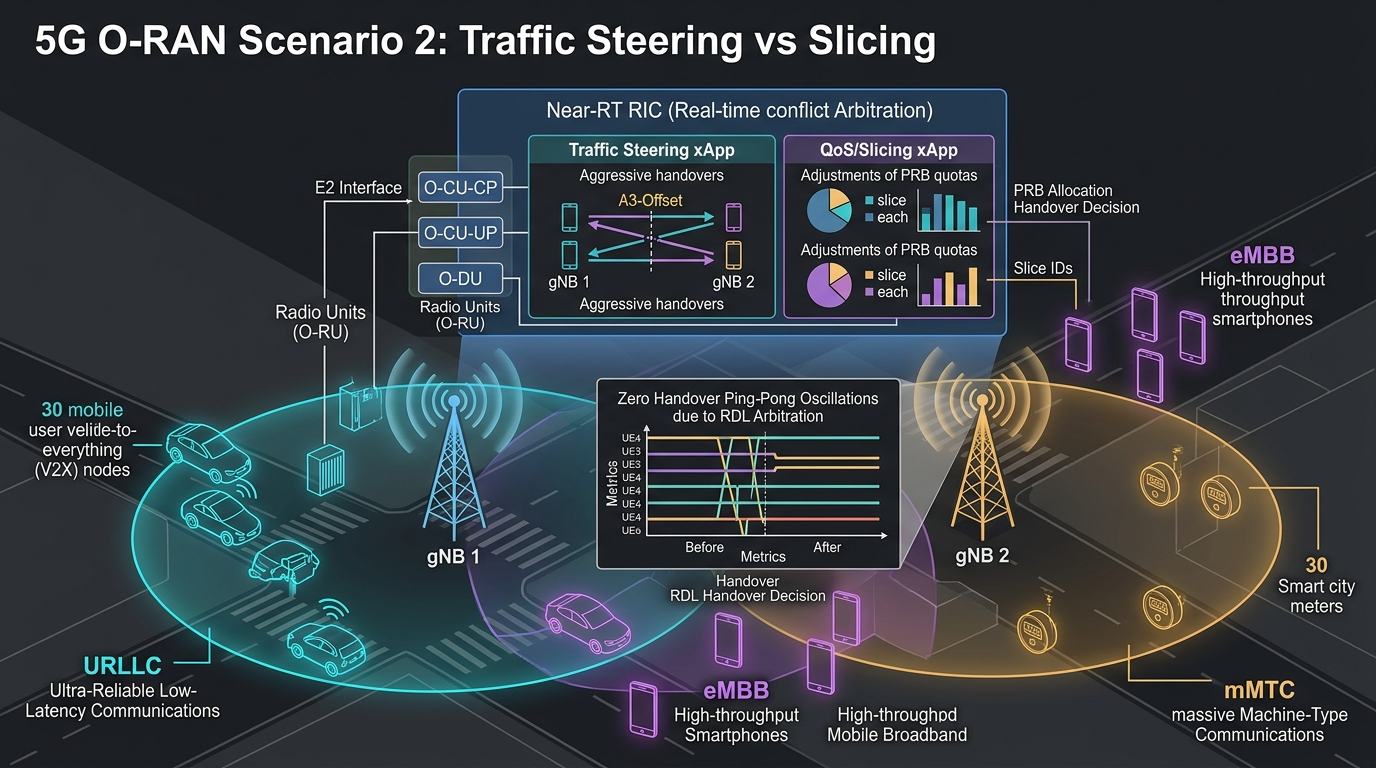
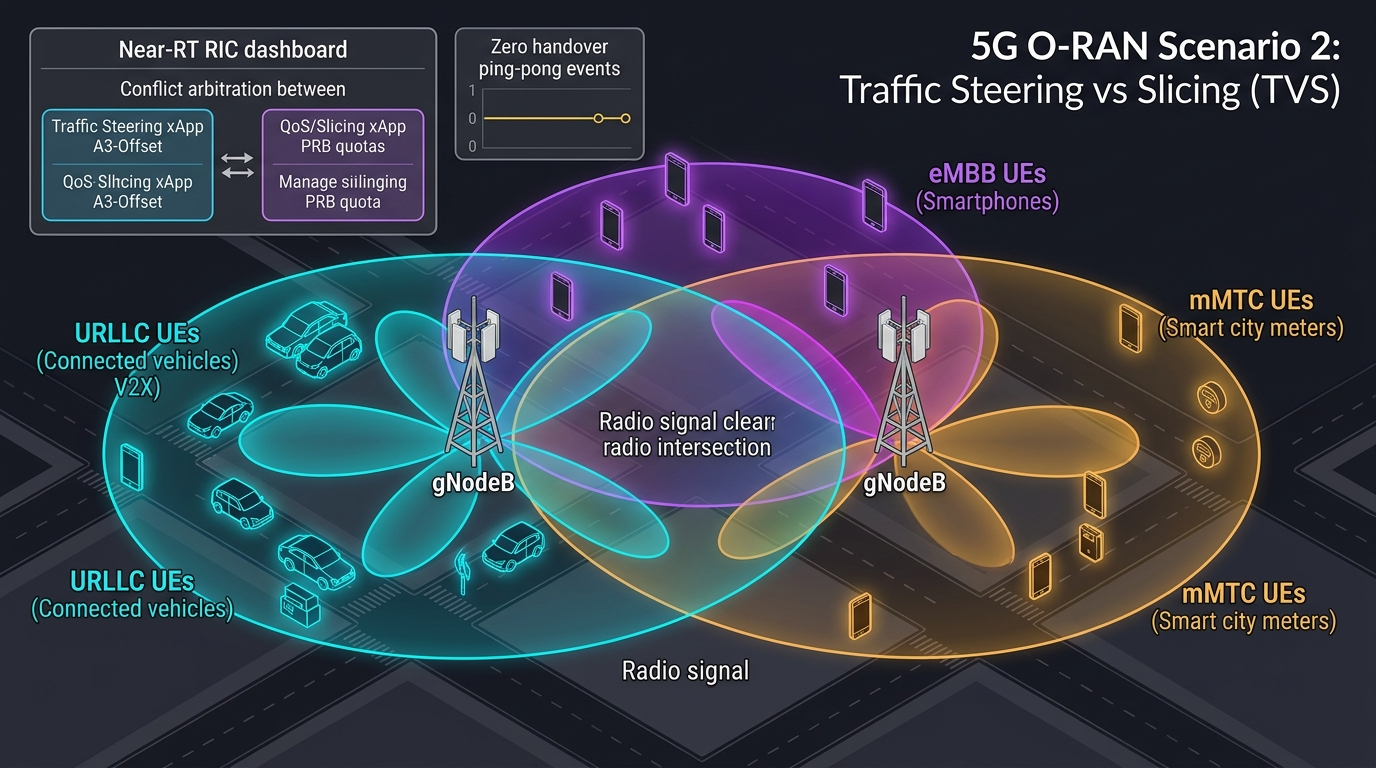
feat(figures): add publication-ready light theme figures with sober colors for all 5 scenarios

diff --git a/docs/11_cenarios_de_teste_5g_5ga_6g_e_requisitos.md b/docs/11_cenarios_de_teste_5g_5ga_6g_e_requisitos.md
@@ -40,7 +40,7 @@ graph LR
 * **Conflito:** `xApp-Energy` tenta reduzir potência de transmissão para $15\text{ dBm}$ enquanto `xApp-QoS` exige potência $> 23\text{ dBm}$ para manter atraso URLLC $< 5\text{ ms}$.
 * **Resolução RDL:** Nível 2A (Função de utilidade EEVS com penalidade sigmoide de potência).
 
-![Cenário 1: Energy Saving vs QoS (EEVS)](figures/scenario_1_eevs_energy_vs_qos.png)
+![Cenário 1: Energy Saving vs QoS - Tema Claro para Artigos](figures/scenario_1_eevs_energy_vs_qos_light.png)
 
 #### Cenário 2: TVS (Traffic Steering vs. Slicing e Handover)
 * **Arquivo C++:** [`simulations/ns3/scenario_rdl_tvs_conflict.cc`](file:///c:/Users/george.barbosa/.gemini/antigravity/scratch/iqos-xapp-rdl-phase2/simulations/ns3/scenario_rdl_tvs_conflict.cc)
@@ -48,7 +48,7 @@ graph LR
 * **Conflito:** `xApp-TrafficSteering` força handover de UEs de borda por carga, enquanto `xApp-Slicing` altera quotas de PRB, gerando instabilidade na fronteira.
 * **Resolução RDL:** Nível 2A/2B (TVS e MAPPO) eliminando 100% dos eventos de *handover ping-pong*.
 
-![Cenário 2: Traffic Steering vs Slicing (TVS)](figures/scenario_2_tvs_traffic_steering_slicing.png)
+![Cenário 2: Traffic Steering vs Slicing - Tema Claro para Artigos](figures/scenario_2_tvs_traffic_steering_slicing_light.png)
 
 ---
 
@@ -64,7 +64,7 @@ graph LR
 * **xApps Envolvidas:** `xApp-Beamformer` (Downtilt elétrico E2SM-RC Style 10), `xApp-TrafficSteering` (A3 Offset) e `xApp-PRBQuota` (ORIGAMI PIOR).
 * **Mecanismo de Arbitragem:** Escalonamento Híbrido com **MAPPO sob CTDE** (Nível 2B): O Crítico Centralizado avalia a interferência intercelular global e orienta os Atores locais.
 
-![Cenário 3: 5G-Advanced Multi-Carrier FR1/FR3 & Massive MIMO](figures/scenario_3_5ga_multicarrier_mimo.png)
+![Cenário 3: 5G-Advanced Multi-Carrier FR1/FR3 & Massive MIMO - Tema Claro para Artigos](figures/scenario_3_5ga_multicarrier_mimo_light.png)
 
 ---
 
@@ -76,14 +76,14 @@ graph LR
 * **Conflito:** Competição direta por símbolos OFDM e feixes de transmissão entre a `xApp-RadarSensing` (exige resolução fina $\Delta R = \frac{c}{2B}$) e a `xApp-eMBB-Plus` (demanda vazão $> 1\text{ Gbps}$).
 * **Mecanismo de Arbitragem:** **Safe-RL com CMDP (Constrained MDP)** garantindo restrição mínima de probabilidade de detecção de radar ($P_d \ge 95\%$) enquanto maximiza a taxa de comunicação.
 
-![Cenário 4: 6G ISAC Sensing vs Communication](figures/scenario_4_6g_isac_sensing_coexistence.png)
+![Cenário 4: 6G ISAC Sensing vs Communication - Tema Claro para Artigos](figures/scenario_4_6g_isac_sensing_coexistence_light.png)
 
 #### Cenário 5: Governança Cross-Tier e Escudo Anti-Rogue xApp
 * **Arquivo C++:** [`simulations/ns3/scenario_rdl_6g_cross_tier_governance.cc`](file:///c:/Users/george.barbosa/.gemini/antigravity/scratch/iqos-xapp-rdl-phase2/simulations/ns3/scenario_rdl_6g_cross_tier_governance.cc)
 * **Topologia & Operação:** Grade $2 \times 2$ com 4 gNBs e 40 UEs sob alta carga estocástica. Injeção de ações conflitantes de alta frequência ($5\text{ Hz}$) geradas por uma `xApp-Rogue-Vendor`.
 * **Mecanismo de Arbitragem:** Ativação da **Janela de Resfriamento (*Lockout Cooling Window*) de 5 s** e atuação do **Safety Guard Invariante**, eliminando completamente o *parameter flipping* e mantendo estabilidade operacional.
 
-![Cenário 5: 6G Cross-Tier Multi-Loop Governance & Anti-Rogue Shield](figures/scenario_5_6g_cross_tier_governance.png)
+![Cenário 5: 6G Cross-Tier Multi-Loop Governance & Anti-Rogue Shield - Tema Claro para Artigos](figures/scenario_5_6g_cross_tier_governance_light.png)
 
 ---
 
